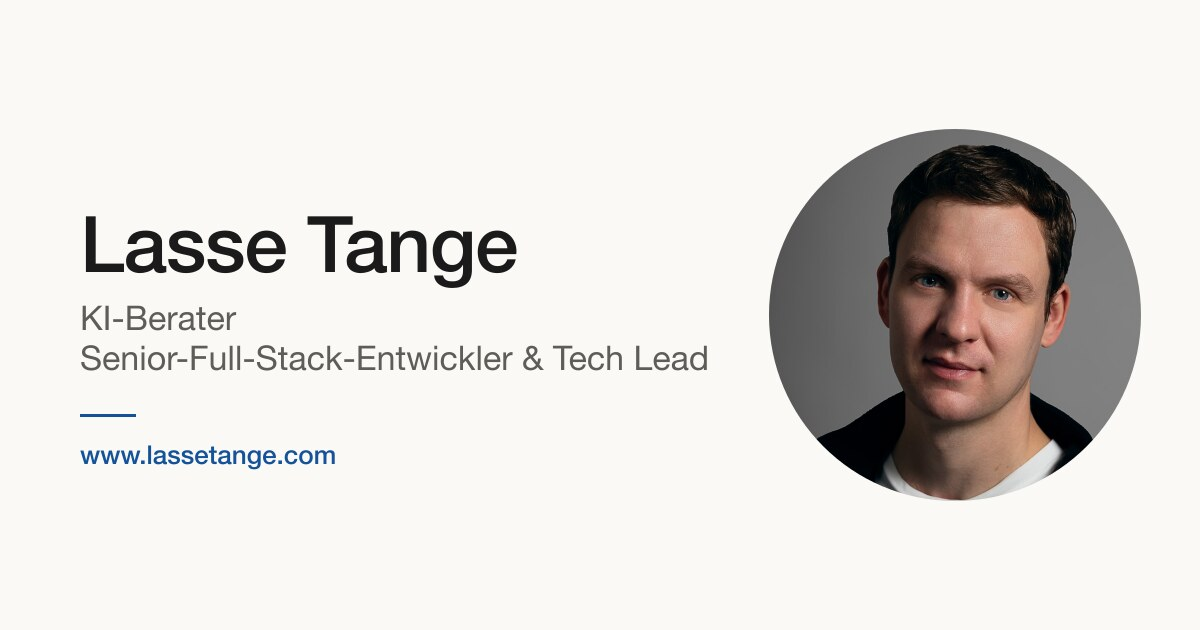
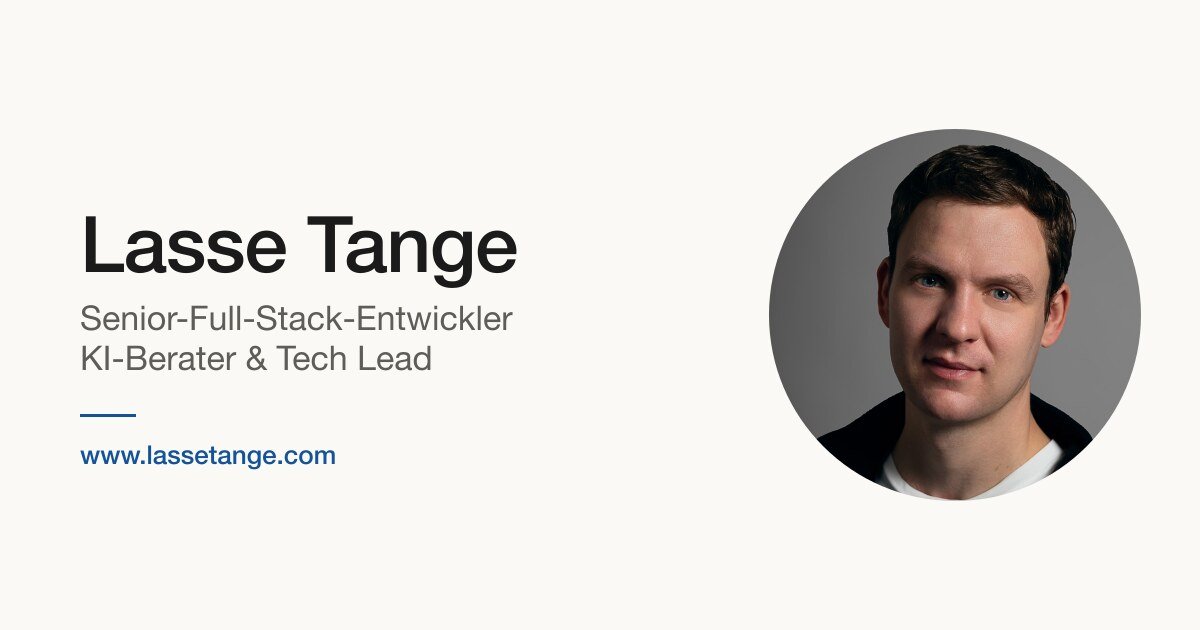
Update Danish and German content

Changed region(s): [[0.0617, 0.4825, 0.5858, 0.6032]]

diff --git a/src/content/de/home.md b/src/content/de/home.md
@@ -1,39 +1,21 @@
 ---
 title: Lasse Tange
-tagline: KI-Berater, Senior-Full-Stack-Entwickler & Tech Lead
-description: KI-Berater, Full-Stack-Entwickler und Tech Lead in Kopenhagen. Über 15 Jahre Erfahrung mit KI, Web, Mobile, Cloud und DevOps.
+tagline: Senior-Full-Stack-Entwickler, KI-Berater & Tech Lead
+description: Full-Stack-Entwickler und Tech Lead in Kopenhagen mit über 15 Jahren Entwicklungserfahrung, spezialisiert auf angewandte KI sowie Web-, Mobile- und Desktop-Apps.
 ---
 
-Seit 15 Jahren baue ich [KI-, Web- und Mobile-Anwendungen](/de/resume), überwiegend in internationalen Startups und öffentlichen Einrichtungen in Berlin und Kopenhagen.
+Ich entwickle Software über den gesamten Stack hinweg – von den ersten Architekturentscheidungen bis zu zuverlässigen Anwendungen, die sich langfristig warten und weiterentwickeln lassen.
 
 ## Über mich {#about}
 
-Ich habe in vielen Branchen und mit vielen Technologien gearbeitet. Heute konzentriere ich mich auf drei Bereiche: angewandte KI, Full-Stack-Entwicklung und Betrieb.
+Ich habe über 15 Jahre Erfahrung in der Softwareentwicklung, einen Großteil davon mit Startups und öffentlichen Einrichtungen in Kopenhagen und Berlin. Ich übernehme Architektur, Entwicklung, Wartung und Optimierung von Web-, Mobile- und Desktop-Apps – einschließlich API-, Webhook- und Zahlungsintegrationen sowie UX-Arbeit an Nutzerabläufen und Layouts statt visuellem Design.
 
-### KI-Berater
+Ich helfe Unternehmen, KI in bestehende Prozesse zu integrieren und neue KI-gestützte Dienste zu entwickeln. Ich habe [SQLAI.ai](/de/resume#sqlai) entwickelt, das mehr als 150.000 Nutzerinnen und Nutzer hat.
 
-Ich arbeite mit KI, seit OpenAI GPT-3 veröffentlicht hat, und habe unter anderem [SQLAI.ai](/de/resume#sqlai) gebaut, das über 150.000 Nutzerinnen und Nutzer hat. Als Berater helfe ich Unternehmen dabei, herauszufinden, wo KI sinnvoll ist und wie die Lösungen in Produktion kommen: RAG und Vektorsuche, agentische Workflows, Prompt-Design, AI Harnesses, Evaluierung der Modelle und so weiter.
+Ich richte Tests, CI/CD, Umgebungen und Logging ein, damit Anwendungen zuverlässig laufen. Außerdem leite ich Entwicklungsteams, begleite technische Entscheidungen, prüfe Code und unterstütze Entwicklerinnen und Entwickler als Mentor.
 
-### Senior-Full-Stack-Entwickler
-
-Als Senior-Full-Stack-Entwickler plane, konzipiere und entwickle ich Web- und Mobile-Anwendungen von Anfang bis Ende, überwiegend in TypeScript/Node.js. Im Frontend bin ich genauso zu Hause wie im Backend und arbeite mit einer breiten Palette von [Technologien und Sprachen](/de/technologies). Außerdem war ich in mehreren Projekten Tech Lead mit Verantwortung für Ausrichtung, Architektur und Mentoring des Teams.
-
-### DevOps, Cloud und Betrieb
-
-Ich bringe die Anwendungen außerdem in Produktion und halte sie am Laufen: Cloud-Infrastruktur (AWS, Cloudflare), Docker, Infrastructure as Code, CI/CD-Pipelines und Testing.
-
-Ich übernehme ausgewählte Freelance- und Beratungsaufträge und bin auch offen für Startup-Ideen.
-
-[Schreiben Sie mir gerne](/de/contact), wenn das interessant klingt.
+Zu meinem Werkzeugkasten gehören Node.js und TypeScript, Python, Go, PHP und SQL. Ich wähle [Sprachen und Technologien](/de/technologies) passend zur Aufgabe, statt meine Arbeit auf einen einzelnen Stack festzulegen.
 
 ## Wie ich arbeite {#approach}
 
-Mein Ansatz:
-
-- **Analytisch:** Ich dringe in das Problem und die Möglichkeiten ein, bevor ich mich auf eine konkrete Lösung festlege.
-- **Ergebnisorientiert:** Ich setze auf Vertrauen statt Kontrolle und Mikromanagement. Der Prozess soll an seinen Ergebnissen gemessen werden.
-- **Qualitätsbewusst:** Ich verbinde schnelles, pragmatisches Problemlösen mit Software, die Bestand hat.
-
-### So bin ich
-
-Ich bin sozial und umgänglich. Ich bin offen und neugierig, finde mich schnell in neuen Büros zurecht und arbeite gern mit Menschen zusammen, die unterschiedliche Hintergründe und Kompetenzen mitbringen.
+Ich bin analytisch und pragmatisch und arbeite gern mit Menschen mit unterschiedlichem Hintergrund zusammen. Ich übernehme ausgewählte Freelance- und Beratungsaufträge und bin offen für Startup-Ideen. [Kontaktieren Sie mich](/de/contact).

diff --git a/src/content/da/home.md b/src/content/da/home.md
@@ -1,39 +1,21 @@
 ---
 title: Lasse Tange
-tagline: AI-konsulent, senior full-stack-udvikler & tech lead
-description: AI-konsulent, full-stack-udvikler og tech lead i København. 15+ års erfaring med AI, web, mobil, cloud og DevOps.
+tagline: Senior full-stack-udvikler, AI-konsulent & tech lead
+description: Full-stack-udvikler og tech lead i København med over 15 års erfaring inden for softwareudvikling og speciale i anvendt AI samt web-, mobil- og desktopapps.
 ---
 
-Jeg har brugt 15 år på at bygge [AI-, web- og mobilapplikationer](/da/resume), det meste af tiden i internationale startups og offentlige institutioner i Berlin og København.
+Jeg bygger software på tværs af hele stacken – fra de første arkitekturbeslutninger til pålidelige applikationer, der kan vedligeholdes og videreudvikles over tid.
 
 ## Om mig {#about}
 
-Jeg har arbejdet i mange brancher og med mange teknologier. I dag arbejder jeg især med tre ting: anvendt AI, full-stack-udvikling og drift.
+Jeg har over 15 års erfaring med softwareudvikling, især for startups og offentlige institutioner i København og Berlin. Jeg står for arkitektur, udvikling, vedligeholdelse og optimering af web-, mobil- og desktopapps – herunder API-, webhook- og betalingsintegrationer samt UX-arbejde med brugerflows og layouts frem for visuelt design.
 
-### AI-konsulent
+Jeg hjælper virksomheder med at integrere AI i eksisterende processer og bygge nye AI-drevne tjenester. Jeg har bygget [SQLAI.ai](/da/resume#sqlai), som har over 150.000 brugere.
 
-Jeg har arbejdet med AI siden OpenAI udgav GPT-3, og jeg har bl.a. bygget [SQLAI.ai](/da/resume#sqlai), som har over 150.000 brugere. Som konsulent hjælper jeg virksomheder med at finde ud af, hvor AI giver mening, og få løsningerne i produktion: RAG og vektorsøgning, agentiske workflows, promptdesign, AI harness, evaluering af modellerne og så videre.
+Jeg sørger for test, CI/CD, miljøer og logning, så applikationerne kører stabilt. Jeg leder også udviklingsteams, hjælper med tekniske beslutninger, gennemgår kode og er mentor for udviklere.
 
-### Senior full-stack-udvikler
-
-Som senior full-stack-udvikler planlægger, arkitekterer og bygger jeg web- og mobilapplikationer fra ende til anden, hovedsageligt i TypeScript/Node.js. Jeg er lige godt hjemme i frontend som i backend og arbejder med en bred vifte af [teknologier og sprog](/da/technologies). Jeg har også været tech lead på flere opgaver med ansvar for retning, arkitektur og mentoring af teamet.
-
-### DevOps, cloud og drift
-
-Jeg sætter også applikationerne i drift og holder dem kørende: cloud-infrastruktur (AWS, Cloudflare), Docker, Infrastructure as Code, CI/CD-pipelines og testing.
-
-Jeg tager imod udvalgte freelance- og rådgivningsopgaver, og jeg er også åben for startup-idéer.
-
-[Skriv gerne til mig](/da/contact), hvis det lyder interessant.
+Mit værktøjssæt omfatter Node.js og TypeScript, Python, Go, PHP og SQL. Jeg vælger [sprog og teknologier](/da/technologies) efter opgaven frem for at definere mit arbejde ud fra én bestemt stack.
 
 ## Sådan arbejder jeg {#approach}
 
-Min tilgang er:
-
-- **Analytisk:** Jeg graver mig ned i problemet og mulighederne, før jeg binder mig til en konkret løsning.
-- **Resultatorienteret:** Jeg foretrækker tillid frem for kontrol og mikrostyring. Processen skal måles på, hvad den leverer.
-- **Kvalitetsbevidst:** Jeg kombinerer hurtig, pragmatisk problemløsning med software, der holder.
-
-### Sådan er jeg
-
-Jeg er socialt anlagt og nem at tale med. Jeg er åben og nysgerrig, indgår gnidningsfrit i nye kontorer og kan godt lide at samarbejde med mennesker, der har forskellige baggrunde og kompetencer.
+Jeg er analytisk og pragmatisk og kan godt lide at samarbejde med mennesker med forskellige baggrunde. Jeg tager imod udvalgte freelance- og rådgivningsopgaver og er åben for startup-idéer. [Skriv til mig](/da/contact).

diff --git a/src/content/de/technologies.md b/src/content/de/technologies.md
@@ -1,69 +1,49 @@
 ---
 title: Technologien
-description: Full-Stack-Entwickler mit TypeScript und React im Zentrum: starke Kompetenzen in Cloud, IaC, CI/CD, Backend und angewandter KI.
+description: Technologien für angewandte KI, Web- und App-Entwicklung, Daten und Betrieb mit TypeScript, Python, Go, PHP und SQL.
 ---
 
-Unten ein Überblick über die Technologien, mit denen ich arbeite: angewandte KI als fester Schwerpunkt und ein breiter Stack, der von Web und Mobile bis zu Cloud, IaC und CI/CD reicht.
+Hier sind einige der Technologien, mit denen ich arbeite.
 
-## KI
+## Angewandte KI
 
 - LLM-APIs (OpenAI, Anthropic)
-- RAG und Vektorsuche
-- Embeddings und semantische Suche
-- Prompt-Design
-- KI-gestützte Entwicklung (Claude Code, Codex CLI)
-- Produktgestaltung mit angewandter KI
-- Agentische KI-Workflows
+- LangChain, LangGraph und LlamaIndex (Python)
+- RAG, Embeddings und Vektorsuche
+- Prompt-Design, agentische Workflows und Evaluierung
+- KI-gestütztes Programmieren: Claude Code, Codex CLI
 
-## Frontend
+## Web, Mobile und Desktop
 
-- React und React Native
-- Next.js, Astro und andere Web-Frameworks
+- Web: React, Angular, Next.js, Astro
+- Mobile: React Native
+- Desktop: Electron, Tauri
 - Tailwind CSS und Designsysteme
-- State-Management (Redux, Zustand, Nanostores)
-- SSR, SSG und Web-Performance
-- Barrierefreiheit und Browser-Kompatibilität
-- SEO und Web-Analytics
+- UX, Barrierefreiheit, Performance und SEO
 
 ## Backend und Daten
 
-- Node.js
-- REST- und GraphQL-APIs, durchgehend typsicher
-- PostgreSQL, MySQL und Redis
+- Node.js: Express, Fastify, NestJS, Hono
+- Python: Flask, FastAPI, Django
+- Go: Gin, Echo
+- REST, GraphQL und Webhooks
+- PostgreSQL, MySQL, Redis und Elasticsearch
 - Datenmodellierung und ORMs (Prisma, Drizzle)
-- Elasticsearch und Suche
-- Geodaten und Karten
-- Zahlungen und Integrationen (Stripe, Lemon Squeezy)
+- Zahlungen (Stripe, Lemon Squeezy)
 
-## Programmiersprachen
+## Bereitstellung und Betrieb
 
-- TypeScript
-- JavaScript
-- SQL
-- Python
+- AWS, Cloudflare und Vercel
+- Docker, Linux und Nginx
+- Git, CI/CD und GitHub Actions
+- Infrastructure as Code und Umgebungen
+- Jest, Vitest, Testing Library und Playwright
+- pytest und testgetriebene Entwicklung
+- Logging und Betrieb
+
+## Sprachen und Laufzeitumgebungen
+
+- TypeScript, JavaScript und Node.js
+- Python und Go
 - PHP
-
-## Tests und Werkzeuge
-
-- Testen (Jest, Testing Library, Playwright)
-- Testgetriebene Entwicklung
-- Storybook
-- Monorepos und modernes Tooling (pnpm, Vite, Rspack)
-- A/B-Tests und Feature Flags
-
-## Plattform und Betrieb
-
-- CI/CD (z. B. GitHub Actions)
-- Docker
-- Cloudflare, AWS und Vercel
-- Linux, Nginx und VPS
-- Git
-- Infrastructure as Code (IaC)
-
-## Produkt und Führung
-
-- Produktstrategie und digitales Geschäft
-- Teamführung und Mentoring
-- UX-Research und Nutzertests
-- Domain-Driven Design
-- Online-Marketing und Wachstum
+- SQL

diff --git a/src/content/da/technologies.md b/src/content/da/technologies.md
@@ -1,69 +1,49 @@
 ---
 title: Teknologier
-description: Full-stack-udvikler med TypeScript og React i centrum: stærke kompetencer inden for cloud, IaC, CI/CD, backend og anvendt AI.
+description: Teknologier til anvendt AI, web- og appudvikling, data og drift med TypeScript, Python, Go, PHP og SQL.
 ---
 
-Nedenfor er et overblik over de teknologier, jeg arbejder med: anvendt AI som fast omdrejningspunkt og en bred stack, der spænder fra web og mobil til cloud, IaC og CI/CD.
+Her er nogle af de teknologier, jeg arbejder med.
 
-## AI
+## Anvendt AI
 
 - LLM-API'er (OpenAI, Anthropic)
-- RAG og vektorsøgning
-- Embeddings og semantisk søgning
-- Promptdesign
-- AI-assisteret udvikling (Claude Code, Codex CLI)
-- Produktdesign med anvendt AI
-- Agentiske AI-workflows
+- LangChain, LangGraph og LlamaIndex (Python)
+- RAG, embeddings og vektorsøgning
+- Promptdesign, agentiske workflows og evaluering
+- AI-assisteret kodning: Claude Code, Codex CLI
 
-## Frontend
+## Web, mobil og desktop
 
-- React og React Native
-- Next.js, Astro og andre web frameworks
+- Web: React, Angular, Next.js, Astro
+- Mobil: React Native
+- Desktop: Electron, Tauri
 - Tailwind CSS og designsystemer
-- Tilstandshåndtering (Redux, Zustand, Nanostores)
-- SSR, SSG og webydelse
-- Tilgængelighed og browserkompatibilitet
-- SEO og webanalyse
+- UX, tilgængelighed, ydeevne og SEO
 
 ## Backend og data
 
-- Node.js
-- REST- og GraphQL-API'er, typesikre fra ende til anden
-- PostgreSQL, MySQL og Redis
+- Node.js: Express, Fastify, NestJS, Hono
+- Python: Flask, FastAPI, Django
+- Go: Gin, Echo
+- REST, GraphQL og webhooks
+- PostgreSQL, MySQL, Redis og Elasticsearch
 - Datamodellering og ORM'er (Prisma, Drizzle)
-- Elasticsearch og søgning
-- Geodata og kort
-- Betaling og integrationer (Stripe, Lemon Squeezy)
+- Betalinger (Stripe, Lemon Squeezy)
 
-## Programmeringssprog
+## Levering og drift
 
-- TypeScript
-- JavaScript
-- SQL
-- Python
+- AWS, Cloudflare og Vercel
+- Docker, Linux og Nginx
+- Git, CI/CD og GitHub Actions
+- Infrastruktur som kode og miljøer
+- Jest, Vitest, Testing Library og Playwright
+- pytest og testdrevet udvikling
+- Logning og drift
+
+## Sprog og kørselsmiljøer
+
+- TypeScript, JavaScript og Node.js
+- Python og Go
 - PHP
-
-## Test og værktøj
-
-- Test (Jest, Testing Library, Playwright)
-- Testdrevet udvikling
-- Storybook
-- Monorepos og moderne værktøj (pnpm, Vite, Rspack)
-- A/B-test og feature flags
-
-## Platform og drift
-
-- CI/CD (f.eks. GitHub Actions)
-- Docker
-- Cloudflare, AWS og Vercel
-- Linux, Nginx og VPS
-- Git
-- Infrastructure as Code (IaC)
-
-## Produkt og ledelse
-
-- Produktstrategi og digital forretning
-- Teamledelse og mentoring
-- UX-research og brugertest
-- Domænedrevet design
-- Online markedsføring og vækst
+- SQL
